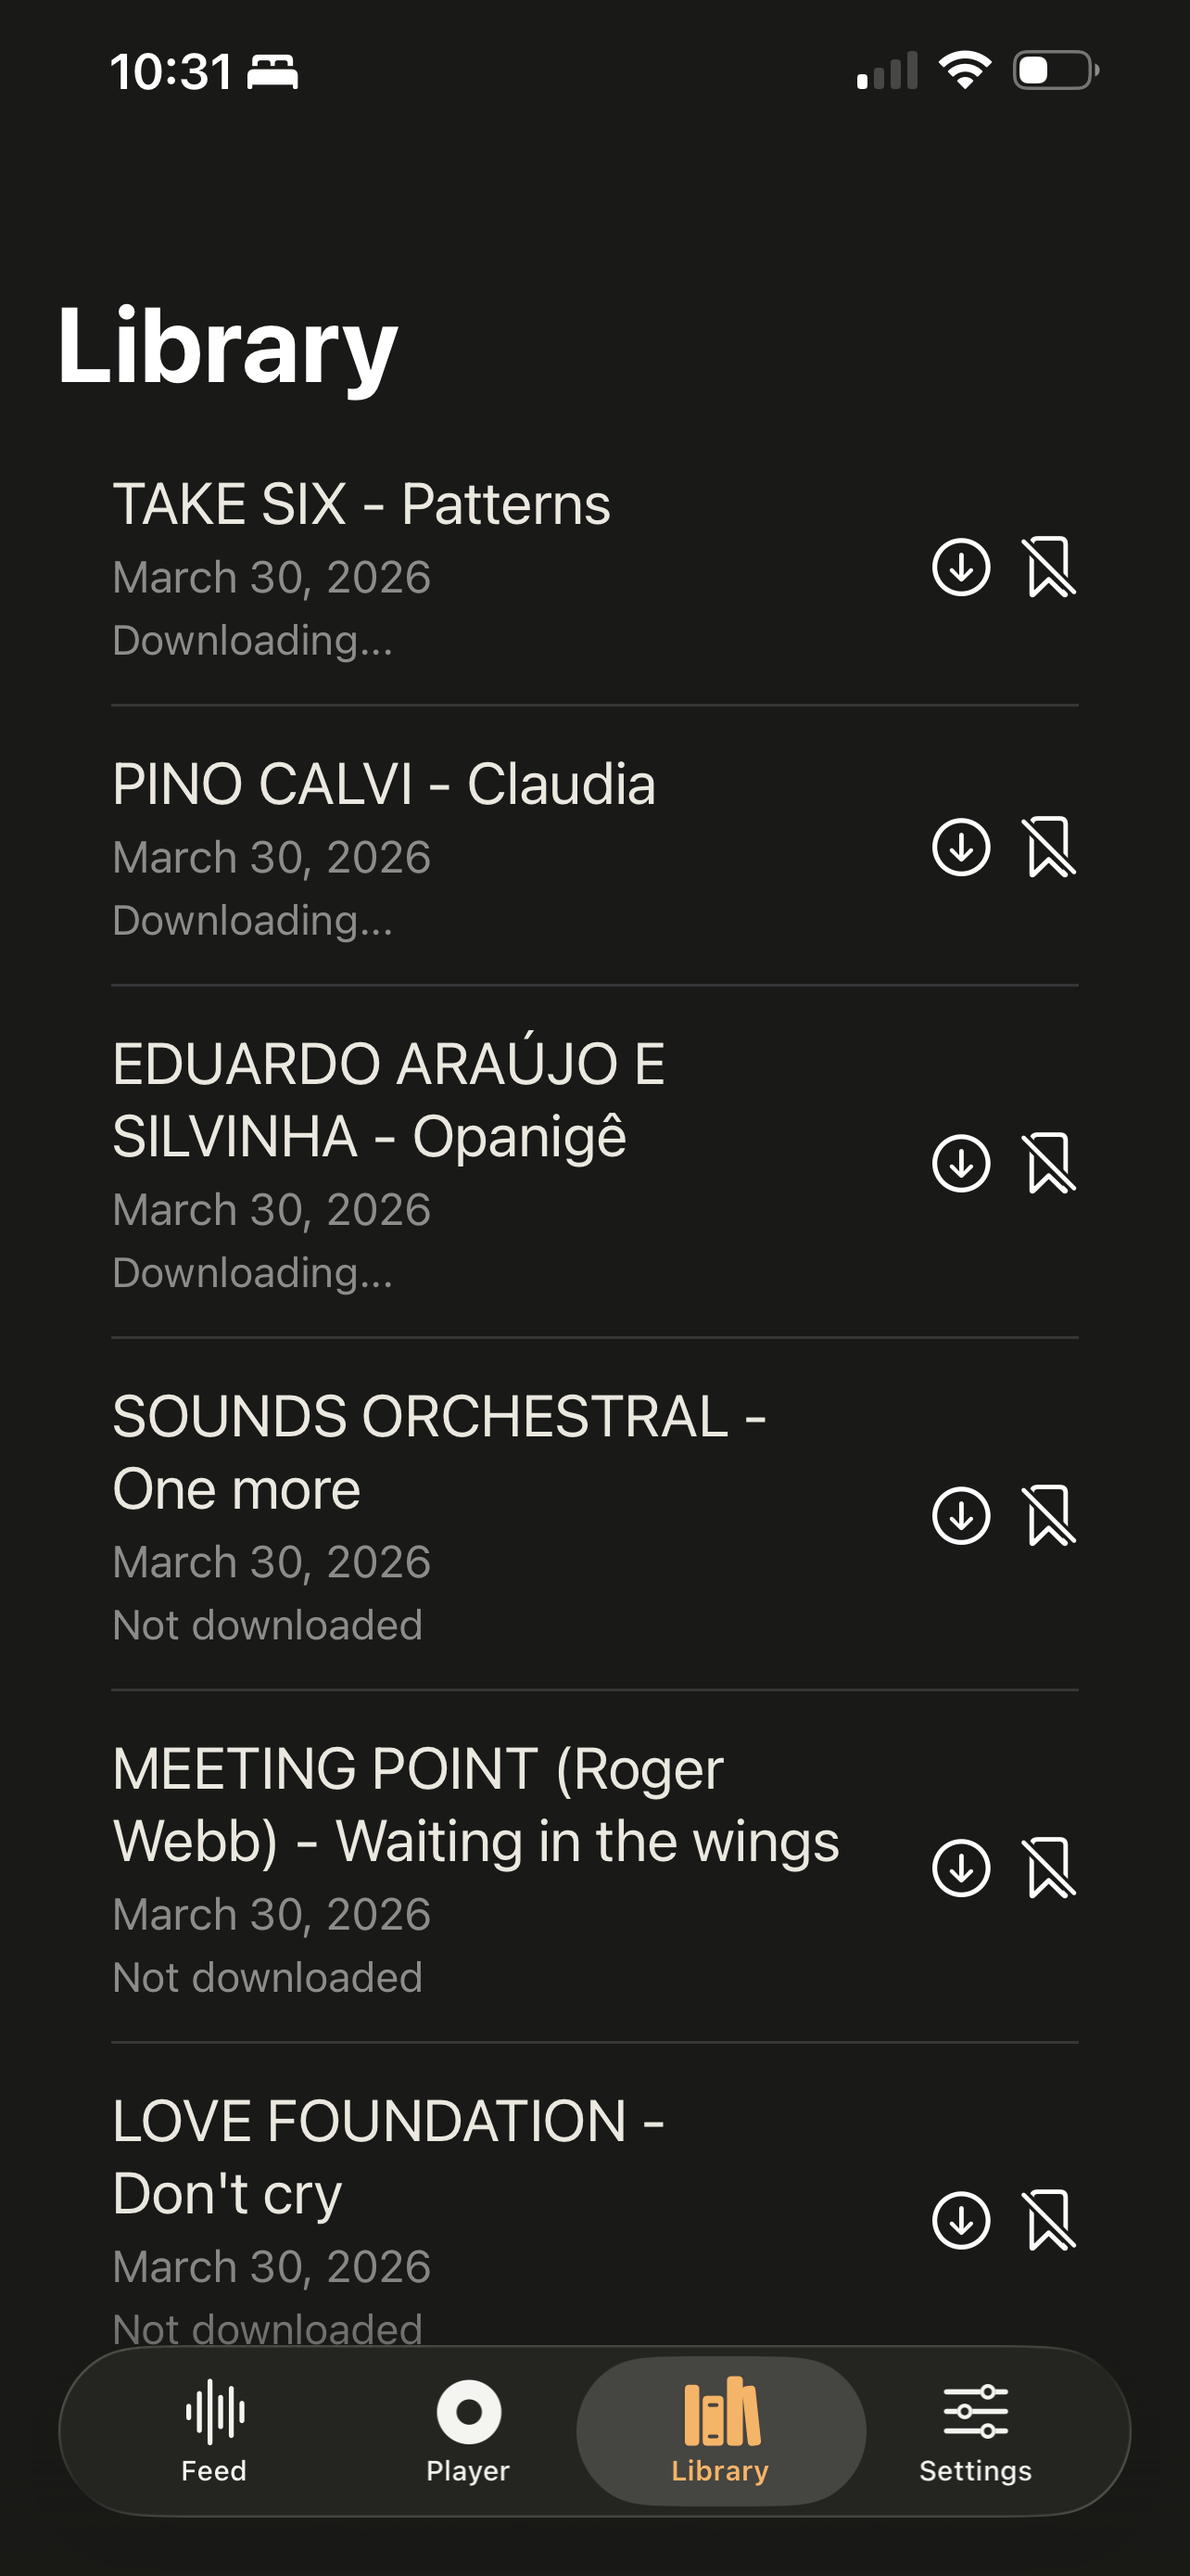
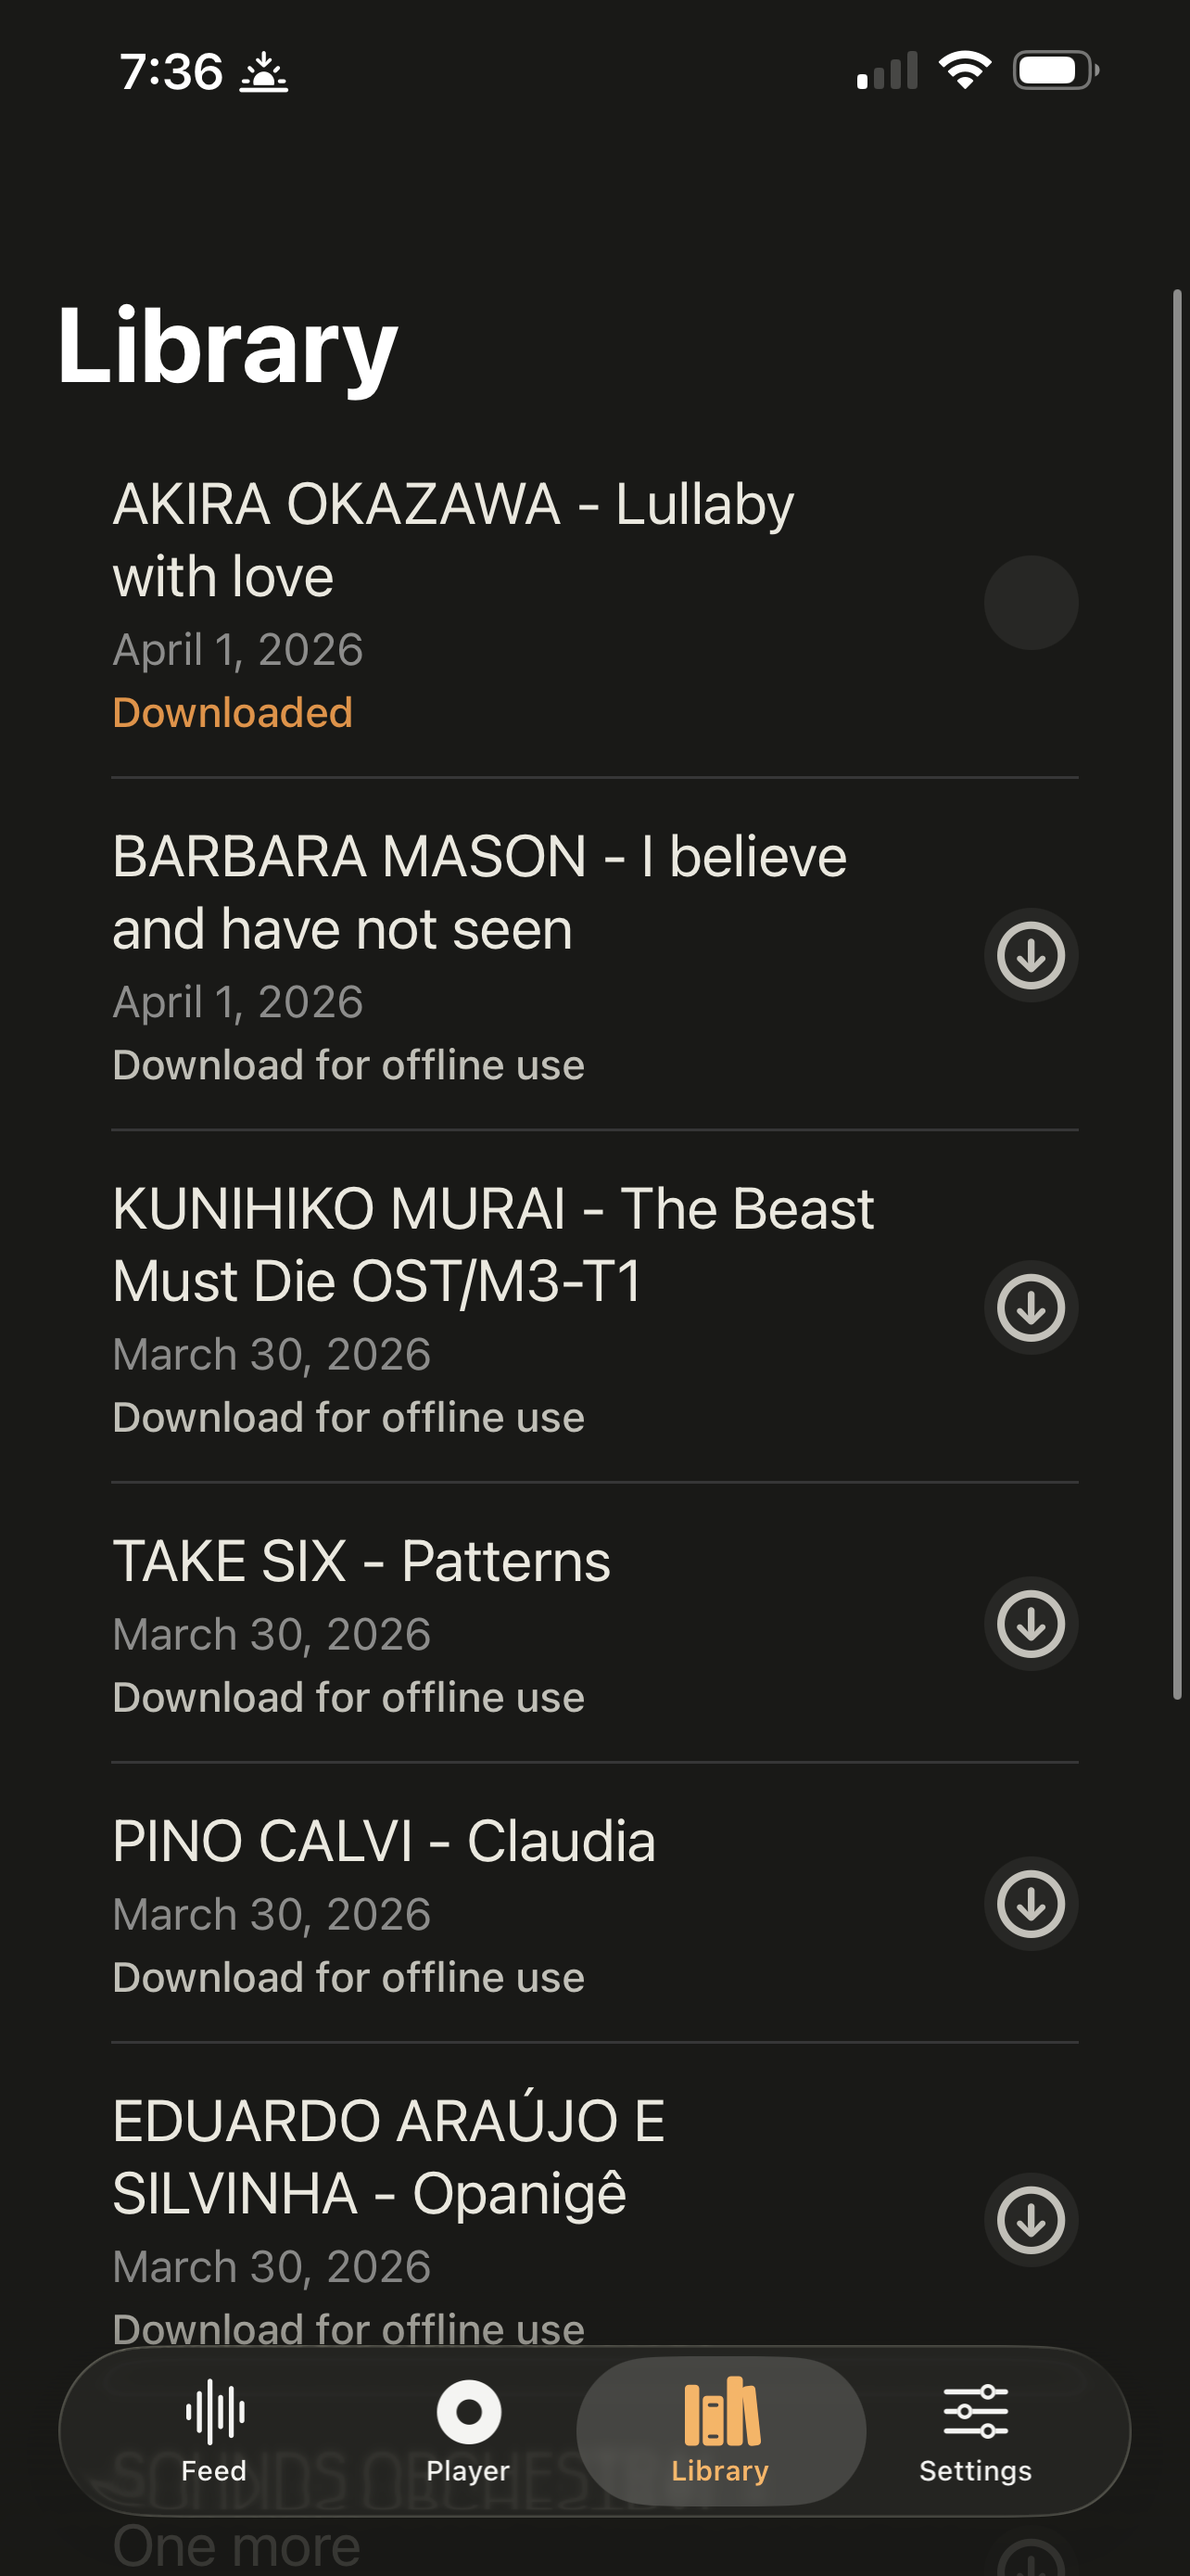
update readme screenshots for feed player and library states

diff --git a/README.md b/README.md
@@ -16,13 +16,13 @@ Current active work includes the new playback transposition modes. `Warp` and `T
 
 ## App Screens
 
-| Feed | Player |
+| Fresh Samples | Studio Deck |
 | --- | --- |
-| ![Feed](docs/screenshots/feed.png) | ![Player](docs/screenshots/player.png) |
+| ![Fresh Samples](docs/screenshots/feed.png) | ![Studio Deck](docs/screenshots/player.png) |
 
-| Library | Settings |
+| Library | Library Downloaded |
 | --- | --- |
-| ![Library](docs/screenshots/library.png) | ![Settings](docs/screenshots/settings.png) |
+| ![Library](docs/screenshots/library.png) | ![Library Downloaded](docs/screenshots/library-downloaded.png) |
 
 ## Project Progress
 
